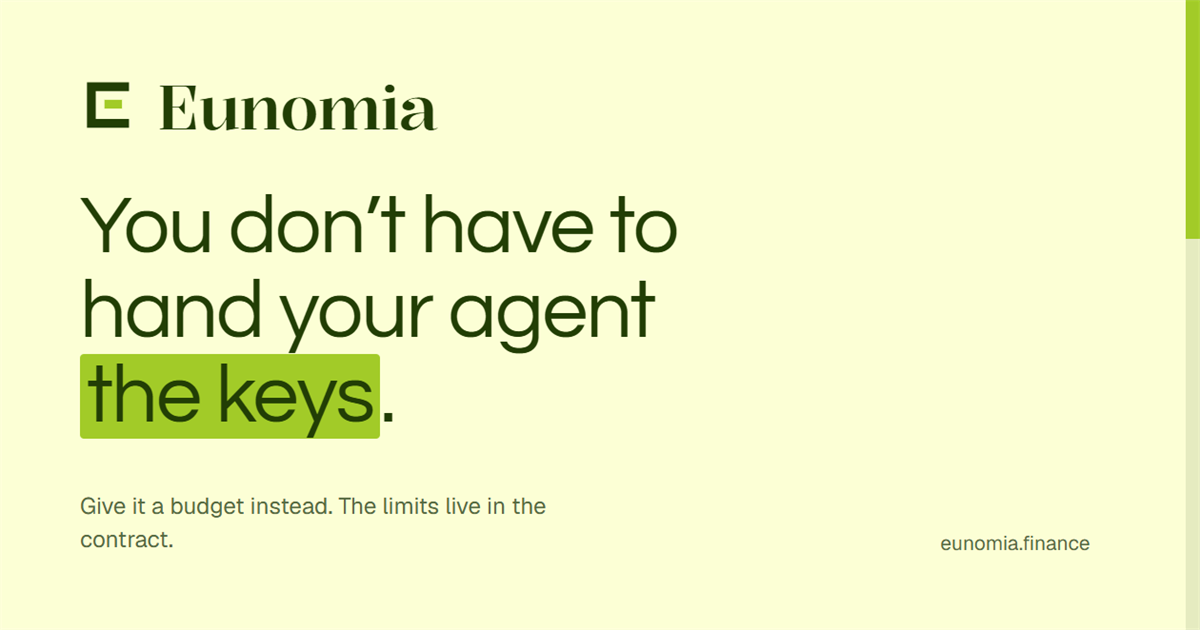
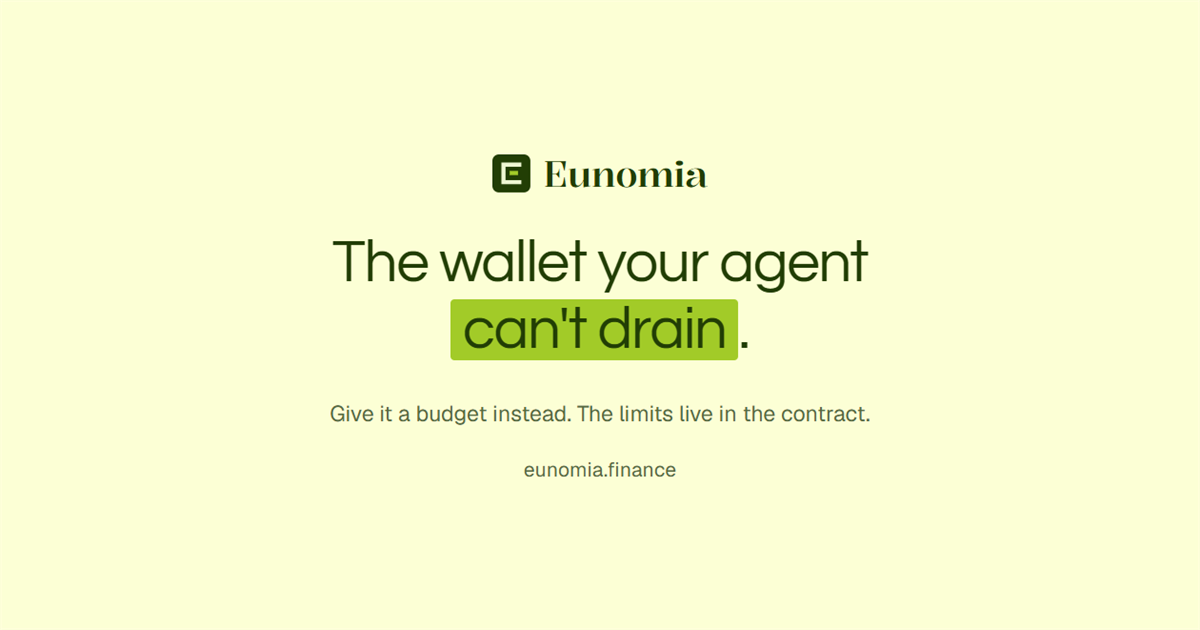
docs: bring the skill and the docs site up to the current product
Three things were out of date in a way that shows to other people.

The share card. WhatsApp, Telegram and LinkedIn crop og.png to a centre square,
and the composition was left-aligned — the card that reached Kaan showed "omin /
on't have to / your agent" with the brand and the start of the headline cut off.
Centred, the same artwork survives both the wide card and the square crop.

SKILL.md still said PRISM throughout, including its `name:`. The open PR against
stellar-dev-skill renames the entry to Eunomia and points at the new repo, so
merging it would have produced a card reading "Eunomia" that opens a file reading
"PRISM". It now matches, keeps "formerly PRISM" where discovery needs it, and its
quickstart leads with the passkey path rather than a wallet install.

The docs site never mentioned passkeys at all — the way a first-time user actually
starts. try-it (and the Turkish version) now open with the two routes in and drop
the "install Freighter first" assumption; the index says what signing in with a
passkey does and does not mean; and the security model states why a sponsored fee
is not custody, since that is the obvious question once someone reads that they
need no XLM.

diff --git a/web/docs-site/try-it-tr.md b/web/docs-site/try-it-tr.md
@@ -3,45 +3,43 @@
 *English version: [Try it in 5 minutes](/try-it)*
 
 Aşağıdaki akış tamamen **testnet** üzerindedir: gerçek para yok, riskiniz sıfır.
-Her adım kendi cüzdanınızla imzalanır — non-custodial, fonlar hep sizin kontrolünüzde.
+Her adımı siz imzalarsınız — non-custodial, fonlar hep sizin kontrolünüzde.
 
 **Uygulama:** [eunomia.finance](https://eunomia.finance)
 
-## Telefondan bağlanma
+## İki giriş yolu
 
-Adımlar telefonda da aynen çalışır. Tarayıcı eklentisi yerine:
+**Passkey ile (en hızlısı).** Face ID, parmak izi ya da cihaz şifreniz. Kurulacak cüzdan,
+yazılacak seed cümlesi ve önceden bulunması gereken XLM yok — passkey bir Stellar smart
+wallet'ı kontrol eder, işlem ücretleri sponsorludur. Telefonda da aynı şekilde çalışır.
 
-1. **Freighter mobil** (veya WalletConnect destekleyen başka bir Stellar cüzdanı) kur.
-2. Cüzdanın ayarlarından ağı **Testnet**'e al.
-3. Uygulamada *Connect wallet* → **WalletConnect** → QR kodu telefon cüzdanınla
-   tara → onayla.
+**Cüzdan ile.** Zaten varsa: masaüstünde Freighter, xBull, Albedo, LOBSTR, Rabet veya
+Hana; telefonda WalletConnect destekleyen herhangi bir Stellar cüzdanı. Cüzdanın kendi
+ayarlarından ağı önce **Testnet**'e alın.
 
 ## Adımlar
 
-1. **Cüzdan kur** — masaüstünde [Freighter](https://www.freighter.app/) eklentisini kur,
-   ağı **Testnet**'e al. Zaten Stellar cüzdanın varsa bu adımı atla.
-2. **Bağlan** — sağ üstteki *Connect wallet* → **Freighter** (masaüstü) ya da
-   **WalletConnect** (telefon).
-3. **Ücretsiz testnet XLM al** — cüzdanın boşsa uygulama fark eder ve **"Get free
-   testnet XLM"** butonu gösterir; tek tık yeter.
-4. **Hazineni oluştur** — günlük ve işlem-başı limitlerini gir → *Create treasury* →
-   imzala. Bitince **"Copy ID" ile hazine kimliğini kopyala ve sakla** — başka cihazdan
-   aynı hazineyi bu ID ile açarsın (ya da oluştururken opsiyonel Stellar yedeğini
-   onayla, dert bitsin).
-5. **Fonla** — bir miktar gir (ör. 20) → *Fund* → imzala.
-6. **Payee onayla** — *Payments → Payees* sekmesinde ödeme yapılabilecek adresi ekle.
-   İkinci adresin yoksa **"use the sample vendor"** bağlantısını kullan.
-7. **Ödeme gönder** — onayladığın adrese limit içinde bir ödeme → on-chain işler ✓.
-8. **Asıl gösteriyi izle** — bir de limit ÜSTÜ tutar dene, ya da hiç onaylamadığın bir
+1. **Giriş yap** — *Create your treasury with a passkey* ve yüzünle, parmak izinle ya da
+   cihaz şifrenle onayla. (Cüzdan mı tercih ediyorsun? *I have a wallet* → cüzdanını seç.
+   Telefonda **WalletConnect**'i seçip QR'ı tara.)
+2. **Kuralları belirle ve oluştur** — günlük ve işlem-başı limit → *Create treasury* →
+   onayla. Bitince **"Copy ID" ile hazine kimliğini kopyala ve sakla**, ya da Settings'te
+   *Back up on Stellar* ile aynı passkey'in olduğu her cihazdan bulunabilir hale getir.
+3. **Fonla** — bir miktar gir (ör. 20) → *Fund* → onayla. Cüzdanla girdiysen ve bakiyen
+   boşsa önce tek tıkla **"Get test XLM"** butonu çıkar.
+4. **Alıcı onayla** — **Payments** sayfasında ödeme yapılabilecek adresi ekle. İkinci
+   adresin yoksa **"use the sample vendor"** bağlantısını kullan.
+5. **Ödeme gönder** — onayladığın adrese limit içinde bir ödeme → on-chain işler ✓.
+6. **Asıl gösteriyi izle** — bir de limit ÜSTÜ tutar dene, ya da hiç onaylamadığın bir
    adrese göndermeyi dene: işlem **on-chain reddedilir**, para yerinden oynamaz.
    Bu red, ürünün ta kendisi. 🔴
-9. **Hazineyi ajana devret (popup'lar bitsin)** — **Agent** sekmesinde harcama tavanı
+7. **Hazineyi ajana devret (popup'lar bitsin)** — **Agent** sekmesinde harcama tavanı
    ve süre belirle → *Start Leash* (tek onay). Artık ödemeler session anahtarıyla
    imzalanır — **Run autonomous task**'a bas: 1 XLM, **sıfır popup'la** on-chain işler,
    tüm kurallar yine geçerli. *Revoke Leash* kontrolü anında geri alır.
-10. **Sahip kontrolleri** — **Settings**'te *Pause spending* (ajan donar, withdraw
-    çalışır), *Withdraw* ile paranı geri çek, *Update limits* ile limitleri anında
-    güncelle — sahibin her zaman bir çıkışı var.
+8. **Sahip kontrolleri** — **Settings**'te *Pause spending* (ajan donar, withdraw
+   çalışır), *Withdraw* ile paranı geri çek, *Update limits* ile limitleri anında
+   güncelle — sahibin her zaman bir çıkışı var.
 
 ## Bir şey ters giderse
 

diff --git a/SKILL.md b/SKILL.md
@@ -1,5 +1,5 @@
 ---
-name: prism-bounded-treasury
+name: eunomia-bounded-treasury
 description: >
   Use when giving an AI agent a safe, non-custodial spending account on Stellar: deploying a
   bounded treasury (per-payment + rolling daily limits, payee whitelist), issuing time-bound
@@ -8,7 +8,7 @@ description: >
   agent payments complied with policy via a Groth16/BN254 zero-knowledge proof verified on-chain.
   Also use when users mention agent spending limits, bounded agents, agent treasuries, autonomous
   payments with guardrails, confidential compliance, or "the wallet an AI agent can't drain" —
-  even if they don't mention PRISM by name.
+  even if they don't mention Eunomia by name (the project was previously called PRISM).
 license: MIT
 compatibility: Designed for Claude Code and compatible AI coding assistants. Building the contracts requires Rust + stellar-cli; the web client and prover run on Node.
 metadata:
@@ -16,10 +16,10 @@ metadata:
   version: "0.4"
 ---
 
-# PRISM — Bounded Agent Treasury on Stellar
+# Eunomia — Bounded Agent Treasury on Stellar
 
-PRISM is a non-custodial Soroban treasury that lets an AI agent spend real money while the
-**contract** — not the model's good intentions — enforces the policy. Every violation (unknown
+Eunomia (formerly PRISM) is a non-custodial Soroban treasury that lets an AI agent spend real
+money while the **contract** — not the model's good intentions — enforces the policy. Every violation (unknown
 payee, over-limit payment, expired session) is rejected **on-chain**. A ZK layer proves a batch of
 payments complied with policy without revealing amounts or payees.
 
@@ -27,7 +27,7 @@ payments complied with policy without revealing amounts or payees.
 - Deep docs in-repo: `README.md` (product tour), `DEPLOYMENT.md` (all deployed contracts),
   `SECURITY.md` (audit findings + known limitations), `ROADMAP.md`, `docs/TRY-IT.md` (5-minute walkthrough).
 
-## When to reach for PRISM
+## When to reach for Eunomia
 
 1. An agent must pay for APIs/services autonomously, but its blast radius must be capped by contract.
 2. You need auditable, task-attributed agent spending (`task_id` accounting, on-chain events).
@@ -42,15 +42,17 @@ payments complied with policy without revealing amounts or payees.
 | Treasury Registry (cross-device discovery) | `CBEPVXK6BN2FZ3IYHV5KQUGROFHNBWBYHKHRZ5U3O7UWGIOPFOFE4ZE7` |
 | Compliance Verifier (ZK, hardened, policy-anchored) | `CCOLX7NEBDJRRVTPFVSK3UJLHMG3HO4UVYJW3NFBOTUG7Q7GOP63DBRH` |
 | Reputation Oracle (stellar-8004 stand-in) | `CCJFIEYFNPRTJVCOGOSESYC5Z6FHHHYAH36V7QTZEDPKESY6O5TPINKY` |
-| Prism Policy (OpenZeppelin ComplianceHooks adapter) | `CBWMYGL7E663UON6ER5KQX2JZZA4UDZZD4RIFEHGXXF2HMMBRAN7BLQF` |
+| Eunomia Policy (OpenZeppelin ComplianceHooks adapter) | `CBWMYGL7E663UON6ER5KQX2JZZA4UDZZD4RIFEHGXXF2HMMBRAN7BLQF` |
 
 The full (historical + demo) address table lives in `DEPLOYMENT.md`.
 
 ## Quickstart
 
-**Fastest path:** open https://eunomia.finance → connect a wallet (Freighter, xBull,
-Albedo, LOBSTR, Rabet, Hana, or WalletConnect on mobile) → *Create your own treasury* → fund →
-whitelist a payee → pay. Over-limit payments are rejected by the contract, visibly.
+**Fastest path:** open https://eunomia.finance → *Create your treasury with a passkey*
+(Face ID, a fingerprint or a device PIN — no wallet, no seed phrase, and no XLM needed: the
+passkey controls a Stellar smart wallet and transaction fees are sponsored) → fund → approve a
+payee → pay. Over-limit payments are rejected by the contract, visibly. Browser wallets
+(Freighter, xBull, Albedo, LOBSTR, Rabet, Hana, or WalletConnect on mobile) work the same way.
 
 **CLI path — deploy your own treasury from the installed wasm (no build needed):**
 
@@ -132,7 +134,7 @@ public inputs) and **replay-guarded** (one attestation per `periodId`). Prover t
 - **Soroban `getEvents` scans ~10k ledgers per page** — paginate with the cursor to the head or a
   24h window will silently miss recent events (the app does this).
 - **x402 facilitator note:** as of `@x402/*` v2.12 the OpenZeppelin Channels facilitator requires
-  an `OZ_API_KEY` even on testnet. PRISM's bundled flow settles directly through the treasury and
+  an `OZ_API_KEY` even on testnet. Eunomia's bundled flow settles directly through the treasury and
   does not need the facilitator.
 - **Old verifier `CA3A7AOG…WS5B` is deprecated** (pre-hardening constructor); use `CCOLX7NE…DBRH`.
 

diff --git a/web/docs-site/try-it.md b/web/docs-site/try-it.md
@@ -3,45 +3,44 @@
 *Türkçe versiyon: [Hızlı başlangıç](/try-it-tr)*
 
 Everything below runs on **testnet**: no real money, zero risk. Every action is signed
-by your own wallet — non-custodial, funds stay under your control the whole time.
+by you — non-custodial, funds stay under your control the whole time.
 
 **App:** [eunomia.finance](https://eunomia.finance)
 
-## Connecting from a phone
+## Two ways in
 
-The steps work the same on mobile. Instead of a browser extension:
+**With a passkey (fastest).** Face ID, a fingerprint or your device PIN. No wallet to
+install, no seed phrase to write down, and no XLM to find first — the passkey controls a
+Stellar smart wallet and transaction fees are sponsored. Works the same on a phone.
 
-1. **Install Freighter mobile** (or another WalletConnect-capable Stellar wallet).
-2. **Switch it to Testnet** in the wallet's settings.
-3. **Connect via WalletConnect** — tap *Connect wallet* → pick **WalletConnect** →
-   scan the QR with your phone wallet → approve.
+**With a wallet.** If you already have one: Freighter, xBull, Albedo, LOBSTR, Rabet or
+Hana on desktop; any WalletConnect-capable Stellar wallet on a phone. Switch it to
+**Testnet** in the wallet's own settings first.
 
 ## Steps
 
-1. **Install a wallet** — on desktop, add the [Freighter](https://www.freighter.app/)
-   extension and switch it to **Testnet**. Already have a Stellar wallet? Skip this.
-2. **Connect** — *Connect wallet* (top right) → **Freighter** (desktop) or
-   **WalletConnect** (phone).
-3. **Get free testnet XLM** — if your wallet is empty the app detects it and shows a
-   **"Get free testnet XLM"** button; one click funds you.
-4. **Create your treasury** — set your daily and per-payment caps → *Create treasury* →
-   sign. When it finishes, **hit "Copy ID" and save your treasury ID** — it's how you
-   reopen the same treasury from another device (or approve the optional on-Stellar
-   backup during creation and skip the worry).
-5. **Fund it** — enter an amount (e.g. 20) → *Fund* → sign.
-6. **Approve a payee** — in *Payments → Payees*, add an address that may be paid.
-   No second address handy? Click **"use the sample vendor"**.
-7. **Send a payment** — pay your approved address within the caps → it lands on-chain ✓.
-8. **Now watch the real show** — try an amount **over** your cap, or a payment to an
+1. **Sign in** — *Create your treasury with a passkey*, and confirm with your face,
+   fingerprint or PIN. (Prefer a wallet? *I have a wallet* → pick yours. On a phone,
+   choose **WalletConnect** and scan the QR.)
+2. **Set your rules and create** — a daily cap and a per-payment cap → *Create treasury*
+   → confirm. When it finishes, **hit "Copy ID" and save your treasury ID**, or use
+   *Back up on Stellar* in Settings so it can be found from any device with the same
+   passkey.
+3. **Fund it** — enter an amount (e.g. 20) → *Fund* → confirm. A wallet user with an
+   empty balance gets a one-click **"Get test XLM"** button first.
+4. **Approve a payee** — on **Payments**, add an address that may be paid. No second
+   address handy? Click **"use the sample vendor"**.
+5. **Send a payment** — pay your approved address within the caps → it lands on-chain ✓.
+6. **Now watch the real show** — try an amount **over** your cap, or a payment to an
    address you never approved: it is **rejected on-chain** and funds never move.
    That rejection is the product working. 🔴
-9. **Hand it to an agent (no more popups)** — in the **Agent** tab set a spending cap
+7. **Hand it to an agent (no more popups)** — in the **Agent** tab set a spending cap
    and a duration → *Start Leash* (one approval). Payments now sign with the session
-   key — try **Run autonomous task**: 1 XLM lands on-chain with **zero wallet popups**,
+   key — try **Run autonomous task**: 1 XLM lands on-chain with **zero popups**,
    every rule still applies. *Revoke Leash* takes control back instantly.
-10. **Owner controls** — in **Settings**: *Pause spending* (freezes the agent, withdraw
-    still works), *Withdraw* funds back out, *Update limits* live. The owner always has
-    an exit.
+8. **Owner controls** — in **Settings**: *Pause spending* (freezes the agent, withdraw
+   still works), *Withdraw* funds back out, *Update limits* live. The owner always has
+   an exit.
 
 ## If something goes wrong
 

diff --git a/web/docs-site/index.md b/web/docs-site/index.md
@@ -6,12 +6,18 @@ checked and enforced on Stellar. Anything outside the rules is blocked, automati
 
 ## How it works
 
-1. **Create** a treasury from your wallet — the rules are built into it at creation.
+1. **Create** a treasury — with a passkey (Face ID, fingerprint or device PIN) or with a
+   Stellar wallet you already use. The rules are built into it at creation.
 2. **Fund** it — the treasury pays from its own balance, never from your wallet.
 3. **Approve payees** — payments can only go to addresses you've approved.
 4. **Hand it to your agent on a Leash** — a spending cap and a time limit. The agent
    pays on its own, no popups; every payment is still checked against your rules,
    and you can revoke instantly.
+
+Signing in with a passkey needs no wallet, no seed phrase and no XLM: the passkey
+controls a Stellar smart wallet, and transaction fees are sponsored. It stays
+self-custodial — the account paying the fee cannot move your funds or redirect a
+payment.
 
 When a payment breaks the rules, the network rejects it — that's the product working,
 not a failure. The block is visible on-chain, so "my agent can't drain me" is something

diff --git a/web/docs-site/security.md b/web/docs-site/security.md
@@ -13,6 +13,10 @@ security-gated; see [Roadmap](/roadmap) for what must land first.
   failed transfer reverts the whole call. Soroban additionally forbids host-level
   reentrancy.
 - **Overflow-checked arithmetic.** Spend accounting panics (reverts) rather than wrapping.
+- **Sponsored fees are not custody.** A passkey user holds no XLM, so someone else pays the
+  transaction fee. That account cannot redirect or alter the payment: authorisation is a
+  signature from your own passkey, bound to your smart wallet's address, and the contract
+  checks it independently of whoever submitted the transaction.
 - **Deliberately non-upgradeable.** No upgrade entrypoint — "the rules are enforced"
   never degrades into "trust the admin". Exit = pause → withdraw → fresh treasury.
 - **Hardened ZK verifier.** Proofs are bound to the owner's anchored policy and each
